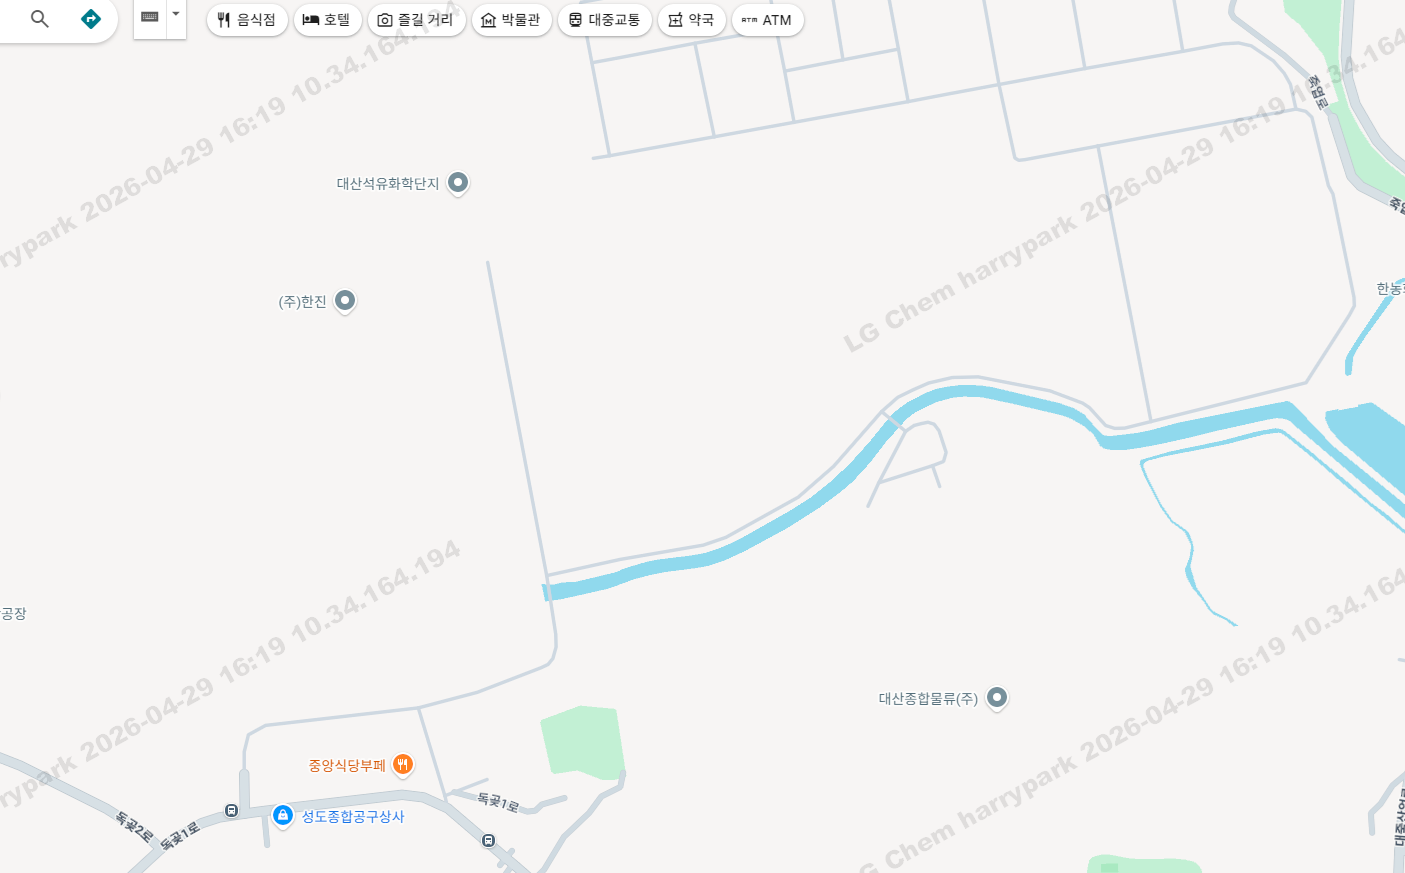
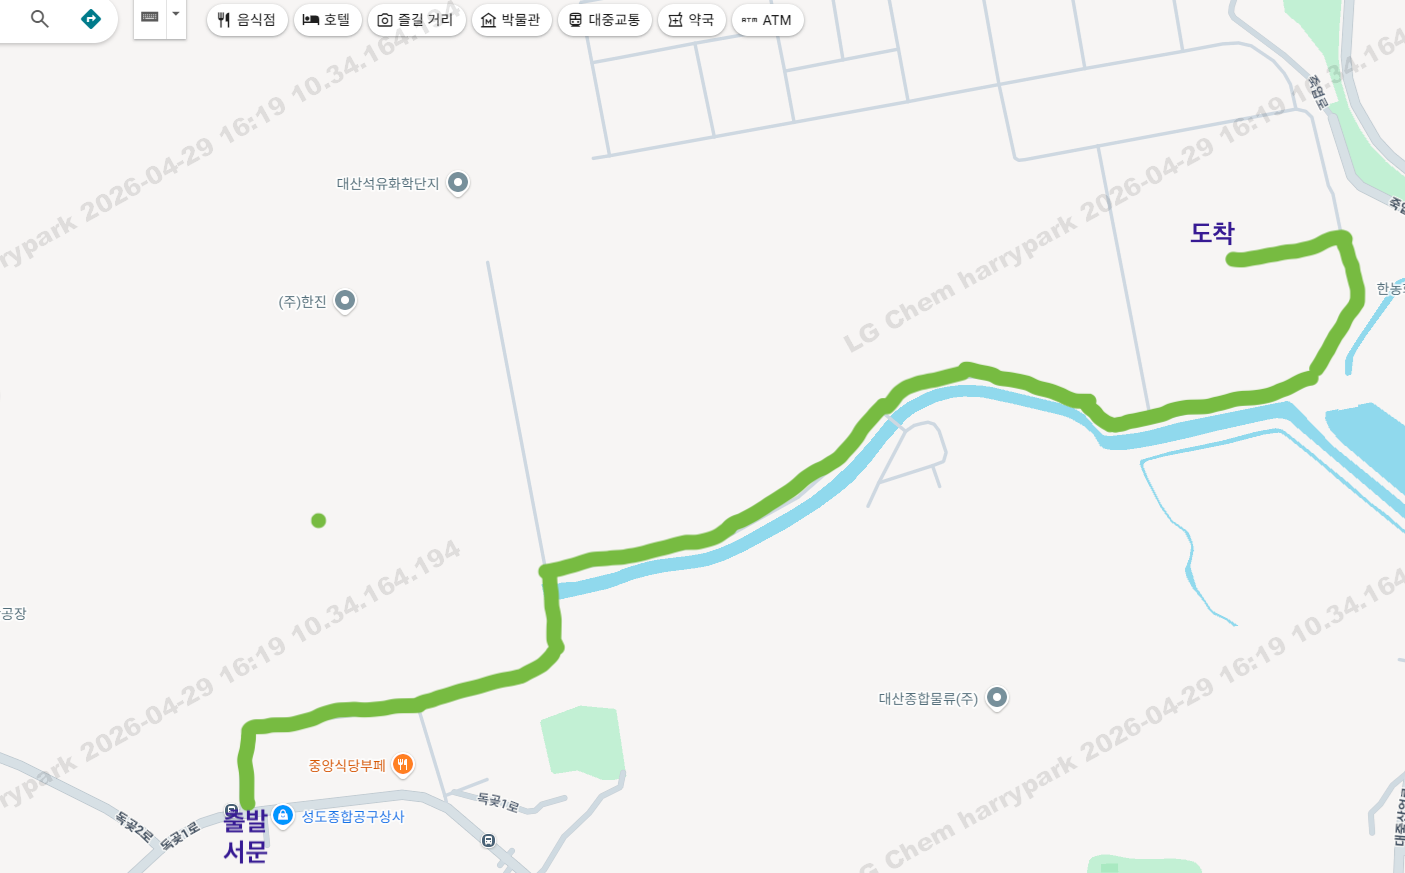
commit 1

Changed region(s): [[0.153, 0.4948, 0.6121, 0.9897], [0.6121, 0.2474, 0.9794, 0.4948], [0.2142, 0.5876, 0.2448, 0.6186]]

diff --git a/index.html b/index.html
@@ -2,30 +2,40 @@
 <html lang="ko">
 <head>
   <meta charset="UTF-8">
-  <title>GPS 약도</title>
+  <title>하차 장소 안내</title>
   <style>
     body { margin:0; text-align:center; font-family:sans-serif; }
-    #map { position: relative; width: 100%; max-width: 400px; margin:auto; }
+    #map { position: relative; width: 100%; max-width: 500px; margin:auto; }
     #map img { width: 100%; }
-    #marker {
+    #me {
       position: absolute;
-      width: 20px;
-      height: 20px;
-      background: red;
+      width: 18px;
+      height: 18px;
+      background: blue;
       border-radius: 50%;
       transform: translate(-50%, -50%);
     }
+    #arrow {
+      position: absolute;
+      width: 0;
+      height: 0;
+      border-left: 10px solid transparent;
+      border-right: 10px solid transparent;
+      border-bottom: 20px solid red;
+      transform: translate(-50%, -50%) rotate(0deg);
+      }
     button {margin:10px;padding:10px}
   </style>
 </head>
 <body>
 
-<h3>GPS 약도 샘플</h3>
-<button onclick="startApp()">위치 및 방향 시작</button>
+<h3>하차 장소 안내</h3>
+<button onclick="start()">시작</button>
 
 <div id="map">
   <img src="map.png" />
-  <div id="marker"></div>
+  <div id="me"></div>
+  <div id="narrow"></div>
 </div>
 
 <p id="direction">방향: 확인중...</p>
